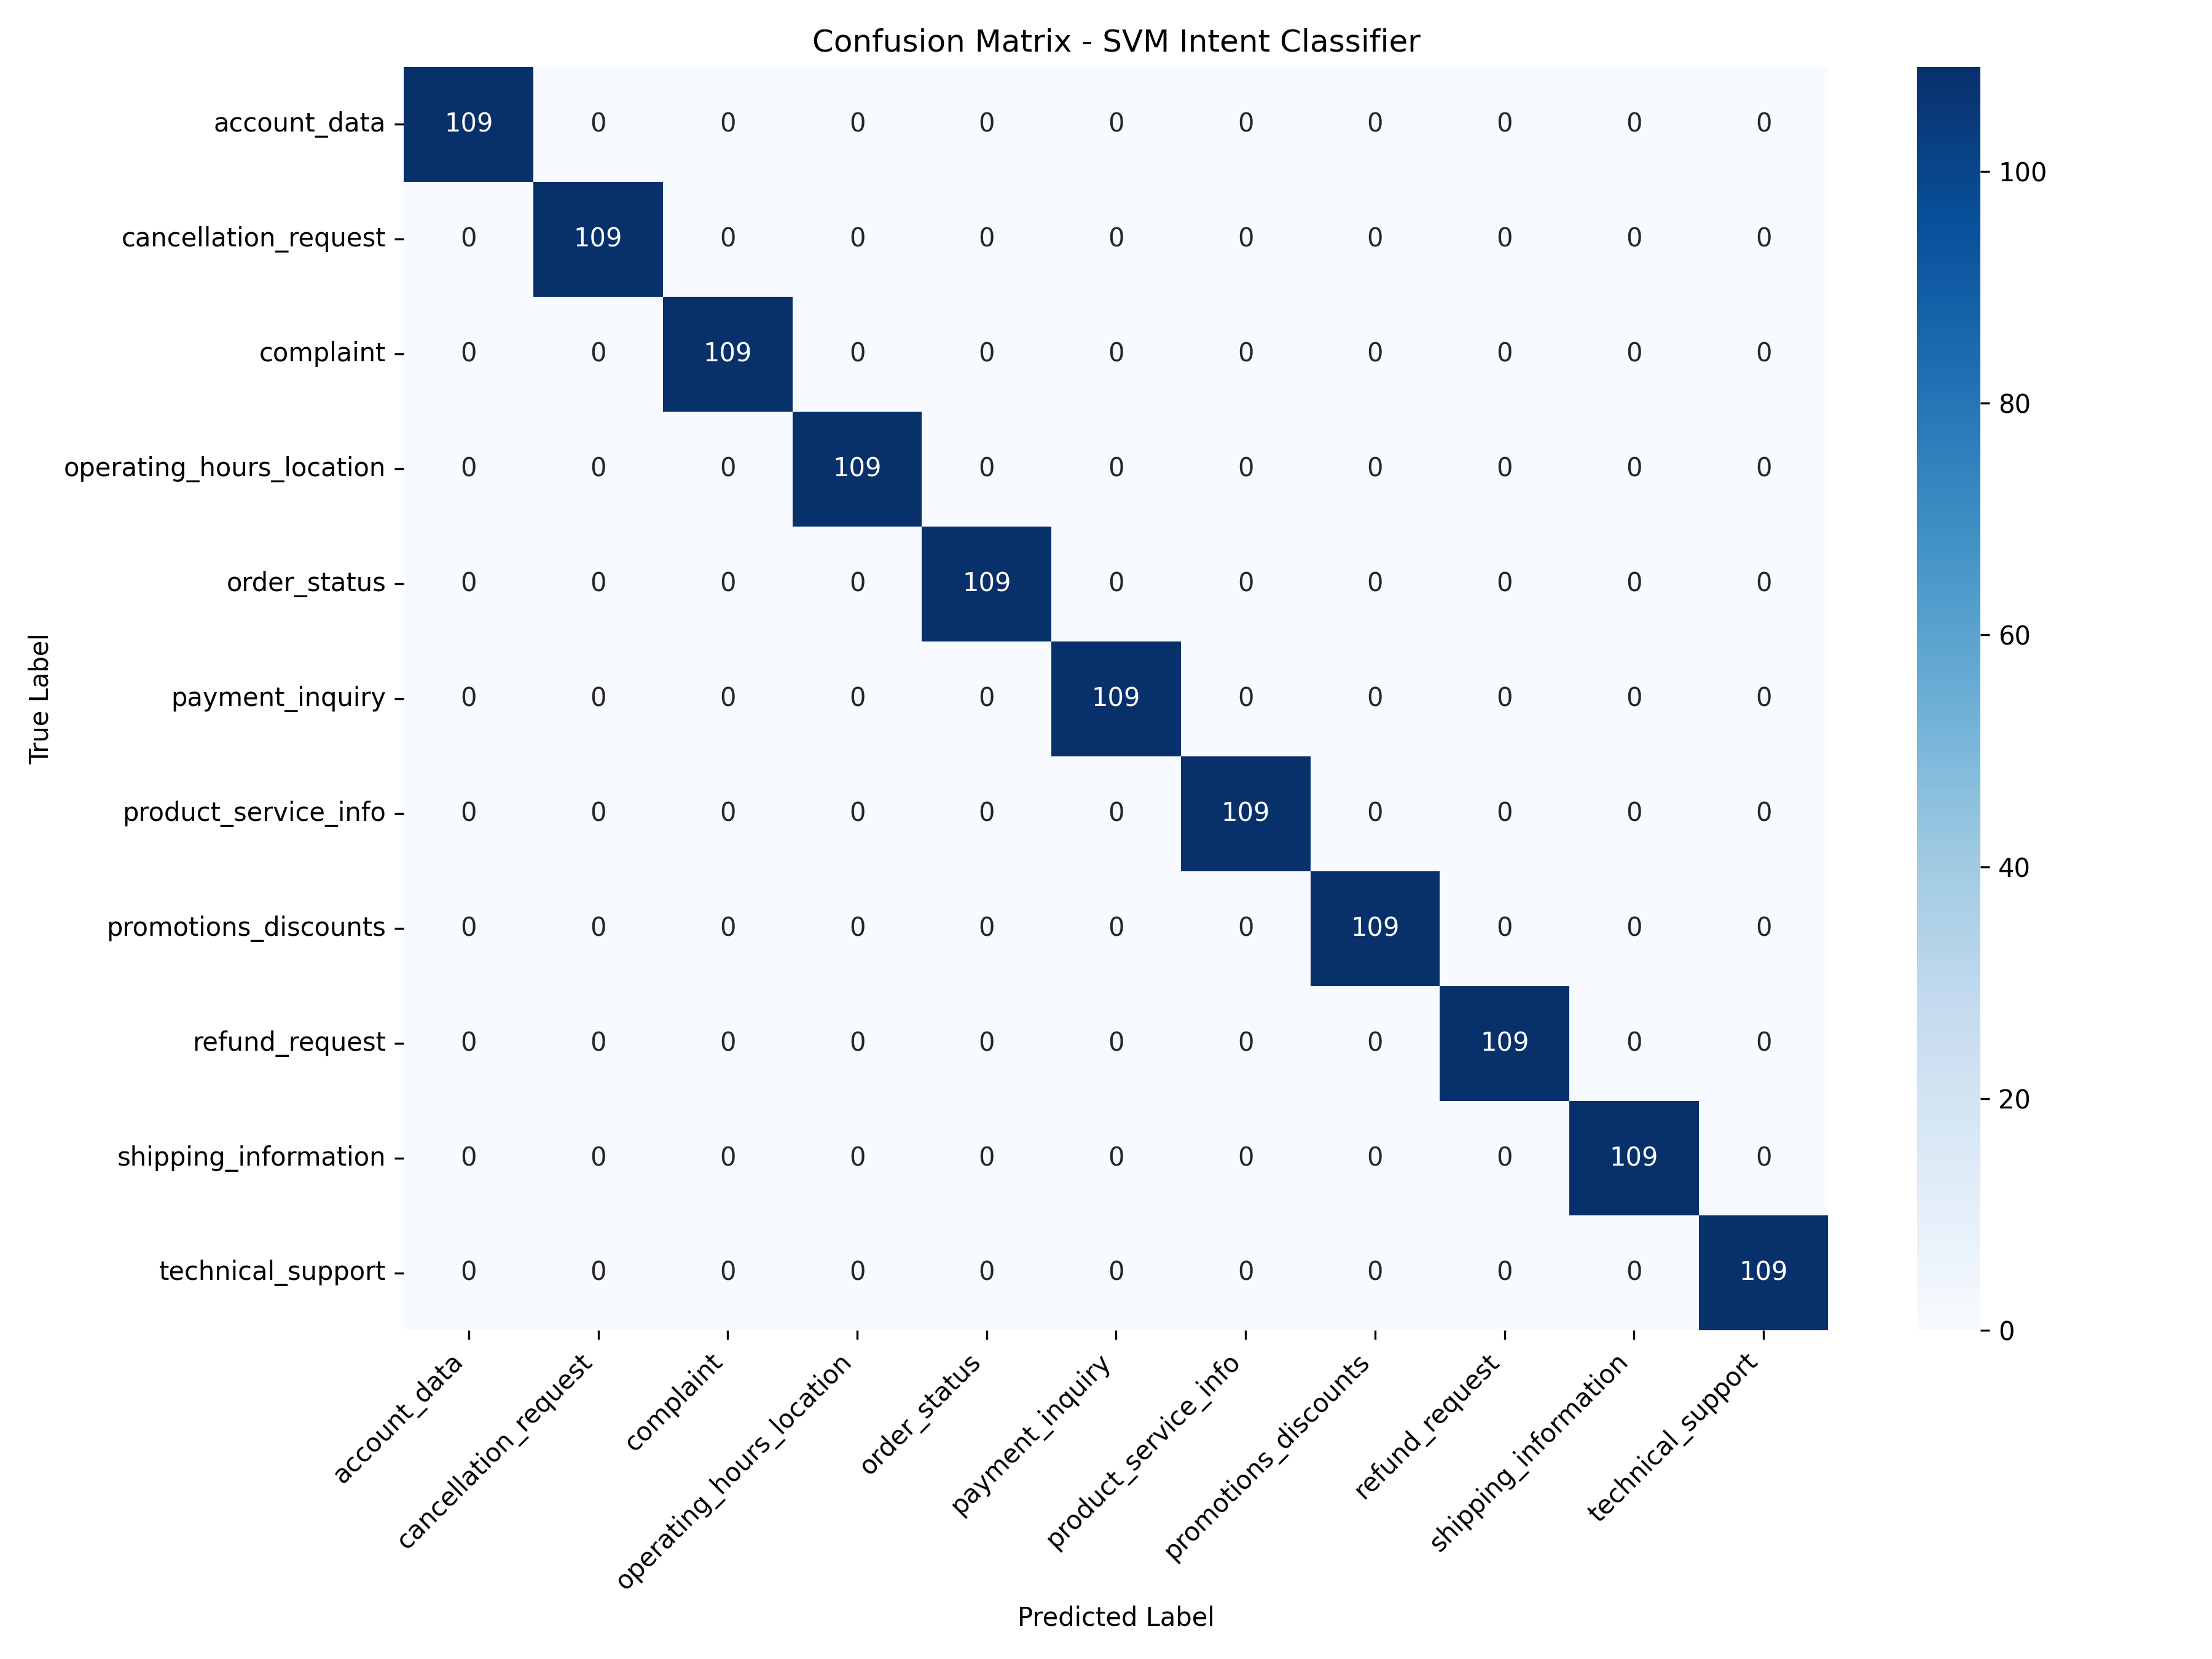
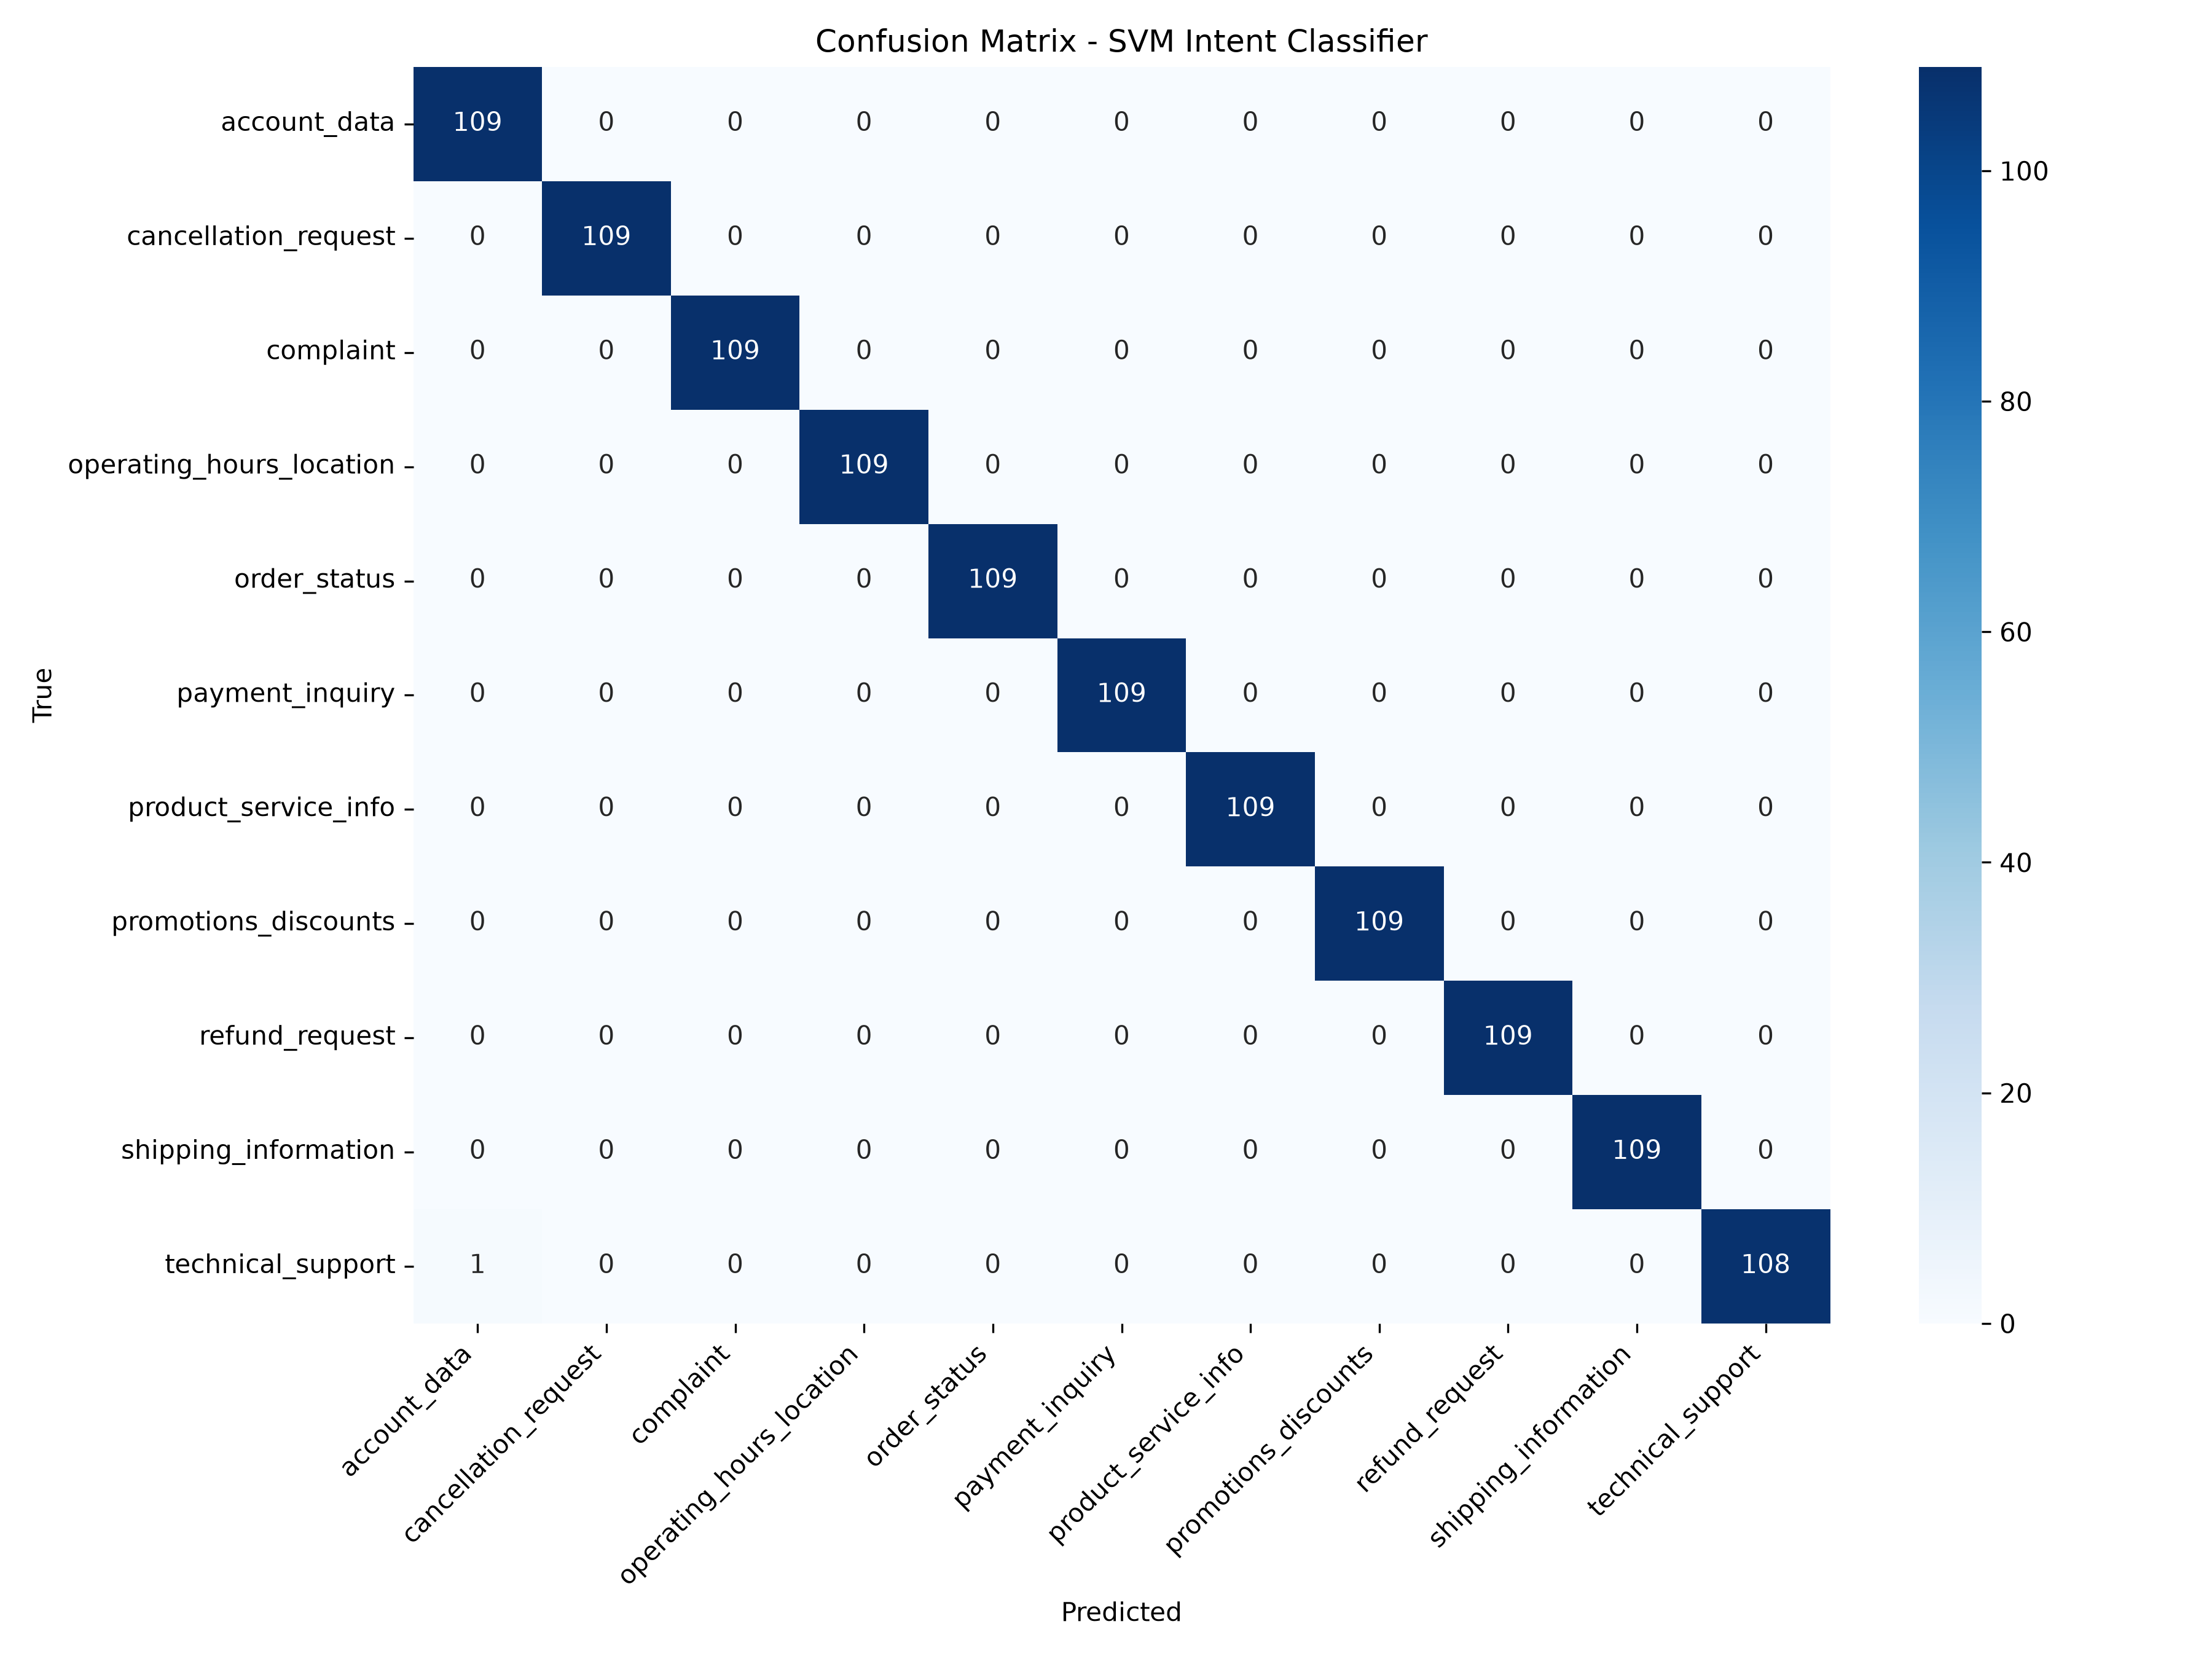
feat(training): add k-fold CV, ablation, RF baseline + unify preprocessing
- Stratified 5-fold CV (mean +/- std) for SVM vs RF
- Ablation study grid (C x ngram x max_features)
- Random Forest as light baseline (SVM remains hero)
- Unify preprocess_text between training/train.py and app/services/classifier.py
- Confidence threshold / fallback demo for realistic routing
- Regenerated model + confusion matrix (SVM 99.92% hold-out)

diff --git a/training/train.py b/training/train.py
@@ -1,132 +1,214 @@
+"""
+Training pipeline — SVM (hero) vs Random Forest (light baseline)
+Intent classification untuk routing chat Customer Service Bahasa Indonesia.
+
+Perubahan vs versi sebelumnya (sesuai feedback bimbingan skripsi):
+  1. Preprocessing DISATUKAN jadi satu fungsi `preprocess_text` yang dipakai
+     baik saat training maupun saat inference (classifier.py) -> konsisten.
+  2. Ditambah Stratified K-Fold Cross Validation (5-fold) -> report mean +/- std.
+  3. Ditambah ablation study (grid C, ngram_range, max_features) -> tabel.
+  4. Random Forest sebagai LIGHT BASELINE (SVM tetap metode utama / hero).
+  5. Confidence threshold + fallback intent ("other") untuk routing realistis di
+     dunia nyata (pesan ngoceh / di luar 11 intent).
+
+Dataset: Bitext Customer Support (diterjemahkan ke Bahasa Indonesia),
+5.995 baris, 11 intent, balanced (~545/intent).
+CATATAN METODOLOGI: dataset ini bersifat sintetis/terjemahan -> akurasi
+99%+ adalah optimistic upper bound. Validasi ke chat CS ASLI (real) tetap
+diperlukan dan harus didokumentasikan di bab metodologi.
+"""
+
 import re
 from pathlib import Path
 
 import joblib
+import matplotlib
+
+matplotlib.use("Agg")  # headless / terminal safe
 import matplotlib.pyplot as plt
 import pandas as pd
 import seaborn as sns
+from sklearn.ensemble import RandomForestClassifier
 from sklearn.feature_extraction.text import TfidfVectorizer
 from sklearn.metrics import accuracy_score, classification_report, confusion_matrix
-from sklearn.model_selection import train_test_split
+from sklearn.model_selection import StratifiedKFold, cross_val_score, train_test_split
 from sklearn.pipeline import Pipeline
 from sklearn.svm import LinearSVC
 
-
+# ---------------------------------------------------------------------------
+# 1. SHARED PREPROCESSING (dipakai train + inference -> konsisten)
+# ---------------------------------------------------------------------------
 STOPWORDS = {
     word.strip()
     for word in """
     dari, yang, di, ke, dan, ini, itu, saja, juga, dengan, pada, untuk, tidak, akan, dapat, telah,
     karena, tetapi, atau, adalah, mereka, kami, kita, saya, ada, sudah, bisa, mau, nya, pun, ya, deh,
-    sih, kok, loh, dong, kah, punya, sedang, telah, belum, agar, supaya, sangat, paling, lebih, kurang,
-    paling, semua, setiap, seorang, tersebut, sendiri, secara, antara, melalui, setelah, sebelum,
+    sih, kok, loh, dong, kah, punya, sedang, belum, agar, supaya, sangat, paling, lebih, kurang,
+    semua, setiap, seorang, tersebut, sendiri, secara, antara, melalui, setelah, sebelum,
     sementara, seraya, sampai, sejak, mengenai, tentang, seperti, sebagai, selain, bagi, demi, oleh,
-    dengan, tanpa, di, ke, dari, dalam, atas, bawah, luar, depan, belakang, dekat, jauh, sekitar, kira,
-    antara, dalam, melalui, secara
+    tanpa, dalam, atas, bawah, luar, depan, belakang, dekat, jauh, sekitar, kira
     """.split(",")
     if word.strip()
 }
 
 
 def preprocess_text(text: str) -> str:
+    """Normalisasi + stopword removal. SAMA PERSIS dengan app/services/classifier.py."""
     text = str(text).lower()
     text = re.sub(r"[^a-z\s]", " ", text)
-    tokens = [token for token in text.split() if token not in STOPWORDS]
+    tokens = [t for t in text.split() if t not in STOPWORDS]
     return " ".join(tokens)
 
 
+# ---------------------------------------------------------------------------
+# 2. BUILD PIPELINES
+# ---------------------------------------------------------------------------
+def build_svm_pipeline(C: float = 1.0, ngram_range=(1, 2), max_features: int = 5000) -> Pipeline:
+    return Pipeline(
+        steps=[
+            ("tfidf", TfidfVectorizer(max_features=max_features, ngram_range=ngram_range, sublinear_tf=True)),
+            ("svm", LinearSVC(C=C, class_weight="balanced", random_state=42)),
+        ]
+    )
+
+
+def build_rf_pipeline(ngram_range=(1, 2), max_features: int = 5000) -> Pipeline:
+    return Pipeline(
+        steps=[
+            ("tfidf", TfidfVectorizer(max_features=max_features, ngram_range=ngram_range, sublinear_tf=True)),
+            ("rf", RandomForestClassifier(n_estimators=200, max_depth=30, random_state=42, n_jobs=-1)),
+        ]
+    )
+
+
+# ---------------------------------------------------------------------------
+# 3. EVALUATION HELPERS
+# ---------------------------------------------------------------------------
+def stratified_cv(pipeline: Pipeline, X, y, cv: int = 5) -> tuple[float, float]:
+    """Return (mean_acc, std_acc) via stratified k-fold CV."""
+    skf = StratifiedKFold(n_splits=cv, shuffle=True, random_state=42)
+    scores = cross_val_score(pipeline, X, y, cv=skf, scoring="accuracy", n_jobs=-1)
+    return float(scores.mean()), float(scores.std())
+
+
+def ablation_table(X, y, cv: int = 5) -> pd.DataFrame:
+    """Grid search ringan: C, ngram_range, max_features -> SVM CV mean/std."""
+    rows = []
+    for ngram in [(1, 1), (1, 2)]:
+        for mf in [3000, 5000]:
+            for C in [0.5, 1.0, 2.0]:
+                pipe = build_svm_pipeline(C=C, ngram_range=ngram, max_features=mf)
+                mean, std = stratified_cv(pipe, X, y, cv=cv)
+                rows.append({"ngram_range": str(ngram), "max_features": mf, "C": C,
+                             "cv_mean": round(mean, 4), "cv_std": round(std, 4)})
+    return pd.DataFrame(rows).sort_values("cv_mean", ascending=False).reset_index(drop=True)
+
+
+# ---------------------------------------------------------------------------
+# 4. MAIN
+# ---------------------------------------------------------------------------
 def main() -> None:
-    data_path = Path("dataset.csv")
-    output_dir = Path("model")
+    base = Path(__file__).resolve().parent
+    data_path = base / "dataset.csv"
+    output_dir = base / "model"
     output_dir.mkdir(parents=True, exist_ok=True)
 
     if not data_path.exists():
         raise FileNotFoundError(f"Dataset not found: {data_path}")
 
     df = pd.read_csv(data_path)
-    required_columns = {"intent", "text"}
-    if not required_columns.issubset(df.columns):
-        raise ValueError(
-            f"dataset.csv must contain columns {required_columns}, found {set(df.columns)}"
-        )
+    if not {"intent", "text"}.issubset(df.columns):
+        raise ValueError(f"dataset.csv must contain {{intent, text}}, found {set(df.columns)}")
 
     df = df.dropna(subset=["intent", "text"]).copy()
     df["text_clean"] = df["text"].astype(str).apply(preprocess_text)
 
+    X = df["text_clean"].values
+    y = df["intent"].values
+
+    # Hold-out split (stratified) untuk classification report + confusion matrix
     X_train, X_test, y_train, y_test = train_test_split(
-        df["text_clean"],
-        df["intent"],
-        test_size=0.2,
-        stratify=df["intent"],
-        random_state=42,
+        X, y, test_size=0.2, stratify=y, random_state=42
     )
 
-    pipeline = Pipeline(
-        steps=[
-            (
-                "tfidf",
-                TfidfVectorizer(
-                    max_features=5000,
-                    ngram_range=(1, 2),
-                    sublinear_tf=True,
-                ),
-            ),
-            (
-                "svm",
-                LinearSVC(
-                    C=1.0,
-                    class_weight="balanced",
-                    random_state=42,
-                ),
-            ),
-        ]
-    )
+    print("=" * 70)
+    print("DATASET")
+    print(f"  Total rows : {len(df)}")
+    print(f"  Intents    : {df['intent'].nunique()}")
+    print(f"  Train/Test : {len(X_train)} / {len(X_test)}")
+    print("=" * 70)
 
-    pipeline.fit(X_train, y_train)
-    y_pred = pipeline.predict(X_test)
+    # ---- Stratified K-Fold CV (5-fold) ----
+    print("\n[1] STRATIFIED K-FOLD CROSS VALIDATION (5-fold, mean +/- std)")
+    svm_cv_mean, svm_cv_std = stratified_cv(build_svm_pipeline(), X, y)
+    rf_cv_mean, rf_cv_std = stratified_cv(build_rf_pipeline(), X, y)
+    print(f"  SVM (LinearSVC, C=1.0) : {svm_cv_mean:.4f} (+/- {svm_cv_std:.4f})")
+    print(f"  RF  (200 trees)         : {rf_cv_mean:.4f} (+/- {rf_cv_std:.4f})")
 
-    accuracy = accuracy_score(y_test, y_pred)
-    print(f"Accuracy: {accuracy:.4f}")
-    print("\nClassification Report:")
-    print(classification_report(y_test, y_pred, digits=4, zero_division=0))
+    # ---- Ablation study ----
+    print("\n[2] ABLATION STUDY (SVM hyperparameter grid, by CV mean)")
+    abl = ablation_table(X, y)
+    print(abl.to_string(index=False))
 
+    # ---- Final models on hold-out ----
+    print("\n[3] HOLD-OUT EVALUATION (test_size=0.2, stratified)")
+    svm = build_svm_pipeline()
+    svm.fit(X_train, y_train)
+    svm_pred = svm.predict(X_test)
+    svm_acc = accuracy_score(y_test, svm_pred)
+    print(f"  SVM Accuracy: {svm_acc:.4f}")
+    print(classification_report(y_test, svm_pred, digits=4, zero_division=0))
+
+    rf = build_rf_pipeline()
+    rf.fit(X_train, y_train)
+    rf_pred = rf.predict(X_test)
+    rf_acc = accuracy_score(y_test, rf_pred)
+    print(f"  RF  Accuracy: {rf_acc:.4f}")
+    print(classification_report(y_test, rf_pred, digits=4, zero_division=0))
+
+    # ---- Save hero model (SVM) ----
     model_path = output_dir / "svm_intent_pipeline.joblib"
-    joblib.dump(pipeline, model_path)
-    print(f"\nSaved pipeline to: {model_path}")
+    joblib.dump(svm, model_path)
+    print(f"\nSaved HERO model (SVM) -> {model_path}")
 
+    # ---- Confusion matrix (SVM) ----
     labels = sorted(df["intent"].unique())
-    cm = confusion_matrix(y_test, y_pred, labels=labels)
-
+    cm = confusion_matrix(y_test, svm_pred, labels=labels)
     plt.figure(figsize=(12, 9))
-    sns.heatmap(
-        cm,
-        annot=True,
-        fmt="d",
-        cmap="Blues",
-        xticklabels=labels,
-        yticklabels=labels,
-    )
+    sns.heatmap(cm, annot=True, fmt="d", cmap="Blues", xticklabels=labels, yticklabels=labels)
     plt.title("Confusion Matrix - SVM Intent Classifier")
-    plt.xlabel("Predicted Label")
-    plt.ylabel("True Label")
+    plt.xlabel("Predicted")
+    plt.ylabel("True")
     plt.xticks(rotation=45, ha="right")
     plt.yticks(rotation=0)
     plt.tight_layout()
-
     cm_path = output_dir / "confusion_matrix.png"
     plt.savefig(cm_path, dpi=300)
     plt.close()
-    print(f"Saved confusion matrix to: {cm_path}")
+    print(f"Saved confusion matrix -> {cm_path}")
 
-    tfidf = pipeline.named_steps["tfidf"]
-    svm = pipeline.named_steps["svm"]
-    feature_names = tfidf.get_feature_names_out()
-    coefficients = svm.coef_.toarray() if hasattr(svm.coef_, "toarray") else svm.coef_
+    # ---- Top-10 tokens per intent (interpretability) ----
+    tfidf = svm.named_steps["tfidf"]
+    svm_clf = svm.named_steps["svm"]
+    feat_names = tfidf.get_feature_names_out()
+    coef = svm_clf.coef_
+    print("\n[4] TOP-10 TF-IDF TOKENS PER INTENT (interpretability)")
+    for idx, intent in enumerate(svm_clf.classes_):
+        top = [feat_names[i] for i in coef[idx].argsort()[-10:][::-1]]
+        print(f"  - {intent}: {', '.join(top)}")
 
-    print("\nTop 10 TF-IDF tokens per intent:")
-    for class_idx, intent in enumerate(svm.classes_):
-        top_indices = coefficients[class_idx].argsort()[-10:][::-1]
-        top_tokens = [feature_names[index] for index in top_indices]
-        print(f"- {intent}: {', '.join(top_tokens)}")
+    # ---- Confidence threshold / fallback demo ----
+    # LinearSVC tidak punya predict_proba; pakai decision_function (margin).
+    # Untuk routing realistis: jika margin maks < THRESHOLD -> intent 'other'.
+    print("\n[5] FALLBACK / CONFIDENCE THRESHOLD (routing ke 'other' jika ragu)")
+    margins = svm.decision_function(X_test)
+    confidence = margins.max(axis=1)
+    THRESHOLD = 0.2  # tune di bab 4
+    fallback_rate = (confidence < THRESHOLD).mean()
+    print(f"  Threshold={THRESHOLD} -> {(fallback_rate*100):.2f}% test msgs routed to 'other'")
+    print("  (Implementasi di classifier.py: bandingkan decision_function max vs threshold)")
+
+    print("\nDONE.")
 
 
 if __name__ == "__main__":

diff --git a/app/services/classifier.py b/app/services/classifier.py
@@ -6,6 +6,20 @@ import joblib
 
 from app.config import settings
 
+# MUST match training/train.py::preprocess_text so inference == training.
+STOPWORDS = {
+    word.strip()
+    for word in """
+    dari, yang, di, ke, dan, ini, itu, saja, juga, dengan, pada, untuk, tidak, akan, dapat, telah,
+    karena, tetapi, atau, adalah, mereka, kami, kita, saya, ada, sudah, bisa, mau, nya, pun, ya, deh,
+    sih, kok, loh, dong, kah, punya, sedang, belum, agar, supaya, sangat, paling, lebih, kurang,
+    semua, setiap, seorang, tersebut, sendiri, secara, antara, melalui, setelah, sebelum,
+    sementara, seraya, sampai, sejak, mengenai, tentang, seperti, sebagai, selain, bagi, demi, oleh,
+    tanpa, dalam, atas, bawah, luar, depan, belakang, dekat, jauh, sekitar, kira
+    """.split(",")
+    if word.strip()
+}
+
 
 class IntentClassifier:
     def __init__(self, model_path: str | None = None) -> None:
@@ -28,11 +42,11 @@ class IntentClassifier:
         return self.model
 
     def preprocess(self, text: str) -> str:
-        """Normalize text before classification."""
-        normalized = str(text).lower()
-        normalized = re.sub(r"[^a-z\s]", " ", normalized)
-        normalized = re.sub(r"\s+", " ", normalized).strip()
-        return normalized
+        """Normalize + stopword removal. IDENTICAL to training/train.py."""
+        text = str(text).lower()
+        text = re.sub(r"[^a-z\s]", " ", text)
+        tokens = [t for t in text.split() if t not in STOPWORDS]
+        return " ".join(tokens)
 
     def predict(self, text: str) -> str:
         """Predict user intent from text."""